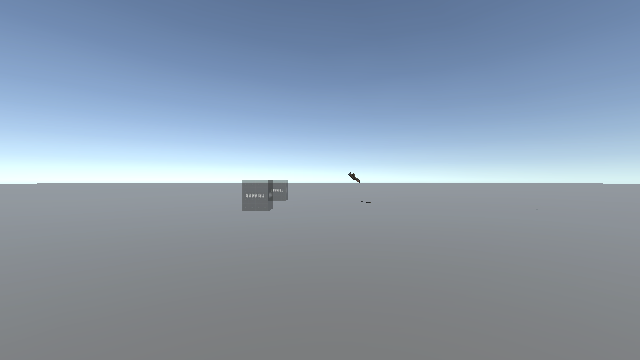
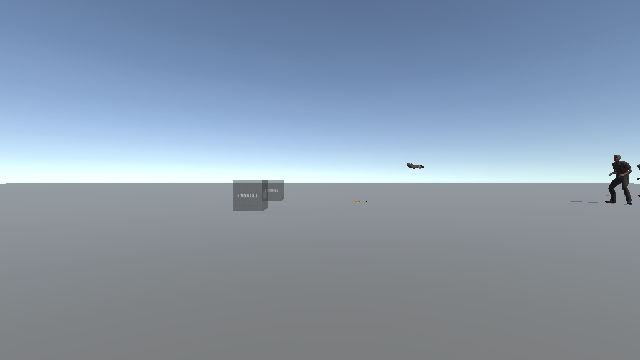
feat: implement game saving system and playground scene setup

diff --git a/Assets/_Project/Scripts/Runtime/Core/SaveGame/SaveGameManager.cs b/Assets/_Project/Scripts/Runtime/Core/SaveGame/SaveGameManager.cs
@@ -97,6 +97,7 @@ namespace UHFPS.Runtime
 
         public List<SaveablePair> worldSaveables = new();
         public List<RuntimeSaveable> runtimeSaveables = new();
+        private HashSet<string> destroyedTokens = new();
 
         public static Dictionary<string, string> LastSceneSaves;
         private static JObject PlayerData;
@@ -389,6 +390,18 @@ namespace UHFPS.Runtime
         }
 
         /// <summary>
+        /// Track a world saveable (scene-placed object) as destroyed so it stays destroyed after save/load.
+        /// </summary>
+        public static void RemoveWorldSaveableByInstance(MonoBehaviour instance)
+        {
+            var match = Instance.worldSaveables.Find(x => x.Instance == instance);
+            if (!string.IsNullOrEmpty(match.Token))
+            {
+                Instance.destroyedTokens.Add(match.Token);
+            }
+        }
+
+        /// <summary>
         /// Set time played timer active state.
         /// </summary>
         public static void SetTimePlayedTimer(bool state)
@@ -547,6 +560,7 @@ namespace UHFPS.Runtime
 
             saveablesBuffer.Add("worldSaveables", worldBuffer);
             saveablesBuffer.Add("runtimeSaveables", runtimeBuffer);
+            saveablesBuffer.Add("destroyedSaveables", JArray.FromObject(destroyedTokens));
             return saveablesBuffer;
         }
 
@@ -752,11 +766,25 @@ namespace UHFPS.Runtime
             JToken worldSaveablesData = worldState["worldSaveables"];
             JToken runtimeSaveablesData = worldState["runtimeSaveables"];
 
+            // load destroyed saveables list (backward compatible: may not exist in old saves)
+            JToken destroyedData = worldState["destroyedSaveables"];
+            HashSet<string> destroyedList = destroyedData != null
+                ? new HashSet<string>(destroyedData.ToObject<List<string>>())
+                : new HashSet<string>();
+
             // iterate every world saveable
             foreach (var saveable in worldSaveables)
             {
                 if (saveable.Instance == null || string.IsNullOrEmpty(saveable.Token))
                     continue;
+
+                // if this saveable was destroyed in the saved session, destroy it again
+                if (destroyedList.Contains(saveable.Token))
+                {
+                    destroyedTokens.Add(saveable.Token);
+                    Destroy(saveable.Instance.gameObject);
+                    continue;
+                }
 
                 JToken token = worldSaveablesData[saveable.Token];
                 if (token == null)

diff --git a/Assets/_Project/Scripts/Runtime/Interact/Items/InteractableItem.cs b/Assets/_Project/Scripts/Runtime/Interact/Items/InteractableItem.cs
@@ -161,8 +161,11 @@ namespace UHFPS.Runtime
 
         public void EnabledState(bool enabled)
         {
-            if (!enabled && SaveGameManager.HasReference) 
+            if (!enabled && SaveGameManager.HasReference)
+            {
+                SaveGameManager.RemoveWorldSaveableByInstance(this);
                 SaveGameManager.RemoveSaveable(gameObject);
+            }
 
             if(DisableType == DisableTypeEnum.Deactivate)
                 gameObject.SetActive(enabled);
